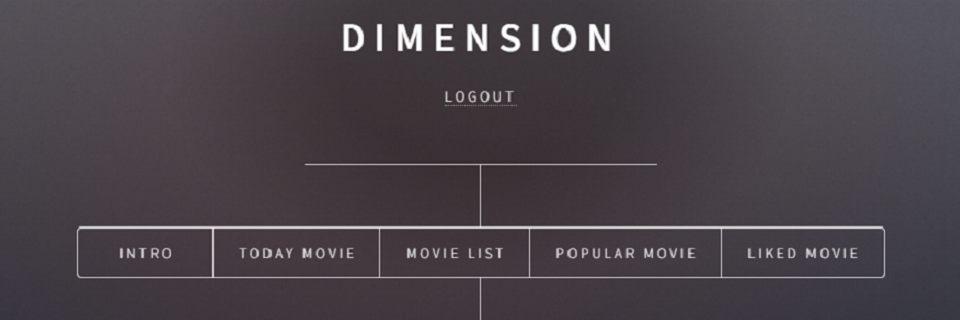
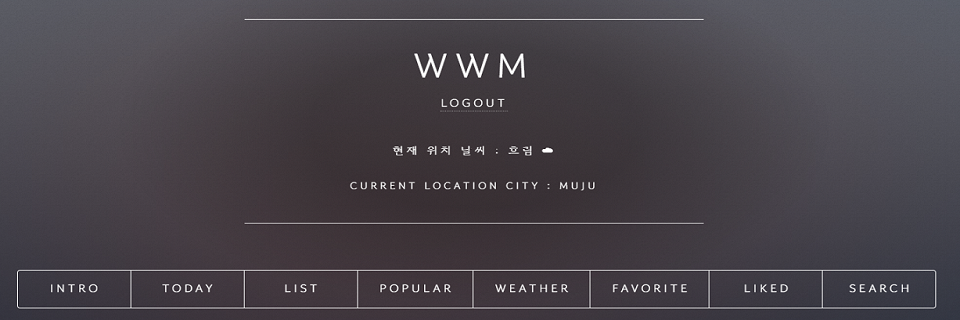
intro 끝

diff --git a/final-pjt-FRONT/public/index.html b/final-pjt-FRONT/public/index.html
@@ -26,10 +26,15 @@
 							<article id="intro" class="fontcolor font">
 								<h2 class="major">Intro</h2>
 								<span class="image main"><img src="/images/navbar2.png" alt="" /></span>
-								<p class="fontcolor">TODAY MOVIE : 오늘의 영화를 추천해 드립니다.</p>
-								<p class="fontcolor">MOVIE LIST : 영화 목록을 20개씩 보여드립니다. 더보기를 눌러 20개씩 영화 데이터를 누적해서 받아보세요! 원하는 영화의 상세정보까지 확인해 볼 수 있습니다.</p>
-								<p class="fontcolor">POPILAR MOVIE : 가장 인기있는 10개의 영화를 보여드립니다. 인기영화의 상세정보까지 확인해보세요!</p>
-								<p class="fontcolor">LIKED MOVIE : 당신이 좋아요한 영화를 확인해보세요!</p>
+								<p>WWM(Wether With Movie)는 영화 추천 사이트 입니다. 오늘의 영화부터 날씨 기반 장르 영화를 추천해 드립니다.</p>
+								<p>TODAY : 오늘의 영화를 추천해 드립니다.</p>
+								<p>LIST : 영화 목록을 20개씩 보여드립니다. 더보기를 눌러 20개씩 영화 데이터를 누적해서 받아보세요! 원하는 영화의 상세정보까지 확인해 볼 수 있습니다.</p>
+								<p>POPULAR : 전세계에서 가장 사랑받은 영화 10개를 확인해 볼 수 있습니다.</p>
+								<p>WEATER : 현재 사용하고 있는 기기 위치를 기반으로 현재 날씨와 어울리는 장르 영화를 추천해 드립니다. (※ 기기의 위치 액세스가 허용되어야 합니다.)</p>
+								<p>FAVORITE : 영화 월드컵을 통해서 나도 몰랐던 나의 최애 영화를 찾아보세요.</p>
+								<p>LIKED : 좋아요한 영화를 확인해보세요!</p>
+								<p>SEARCH : 확인하고 싶은 영화를 검색할 수 있습니다.</p>
+
 							</article>
 
 					</div>

diff --git a/final-pjt-BACK/BACK/movies/views.py b/final-pjt-BACK/BACK/movies/views.py
@@ -5,8 +5,8 @@ from rest_framework.permissions import IsAuthenticated
 from rest_framework.response import Response
 from rest_framework import status
 
-from .models import Movie, Genre, Review, Comment
-from .serializers import MovieSerializer,MovieListSerializer, GenreSerializer, ReviewListSerializer, CommentListSerializer
+from .models import Movie, Genre, Review, Comment, Worldcup
+from .serializers import MovieSerializer,MovieListSerializer, GenreSerializer, ReviewListSerializer, CommentListSerializer, WorldcupSerializer
 # from .pagination import MovieNumberPagination
 
 # Create your views here.
@@ -195,3 +195,10 @@ def weather(request, lat, lon):
         'local_name' : local_name
     }
     return Response(today_weather)
+
+# 월드컵
+@api_view(['GET'])
+def worldcup(request):
+    worldcups = get_list_or_404(Worldcup)
+    serializer = WorldcupSerializer(worldcups, many=True)
+    return Response(serializer.data)

diff --git a/final-pjt-BACK/BACK/movies/models.py b/final-pjt-BACK/BACK/movies/models.py
@@ -40,3 +40,15 @@ class Comment(models.Model):
     create_at = models.DateTimeField(auto_now_add=True)
     updated_at = models.DateTimeField(auto_now=True)
 
+class Worldcup(models.Model):
+    movie_id = models.TextField()
+    title = models.TextField()
+    original_title = models.TextField()
+    overview = models.TextField()
+    poster_path = models.TextField()
+    vote_average = models.FloatField()
+    vote_count = models.IntegerField()
+    release_date = models.TextField()
+    popularity = models.FloatField()
+    adult = models.BooleanField()
+    backdrop_path = models.CharField(max_length=500)

diff --git a/final-pjt-BACK/BACK/movies/serializers.py b/final-pjt-BACK/BACK/movies/serializers.py
@@ -1,5 +1,5 @@
 from rest_framework import serializers
-from .models import Movie, Genre, Review, Comment
+from .models import Movie, Genre, Review, Comment, Worldcup
 
 # 장르
 class GenreSerializer(serializers.ModelSerializer):
@@ -44,3 +44,9 @@ class CommentListSerializer(serializers.ModelSerializer):
         model = Comment
         fields = '__all__'
         read_only_fields = ['review', 'user',]
+
+# 영화 월드컵
+class WorldcupSerializer(serializers.ModelSerializer):
+    class Meta:
+        model = Worldcup
+        fields = '__all__'

diff --git a/final-pjt-BACK/BACK/movies/urls.py b/final-pjt-BACK/BACK/movies/urls.py
@@ -23,4 +23,5 @@ urlpatterns = [
     path('recommend/popular/', views.popular_movies),
     path('recommend/<int:user_pk>/like/', views.user_like),
     path('recommend/weather/<lat>/<lon>/', views.weather),
+    path('recommed/worldcup/', views.worldcup),
 ]
